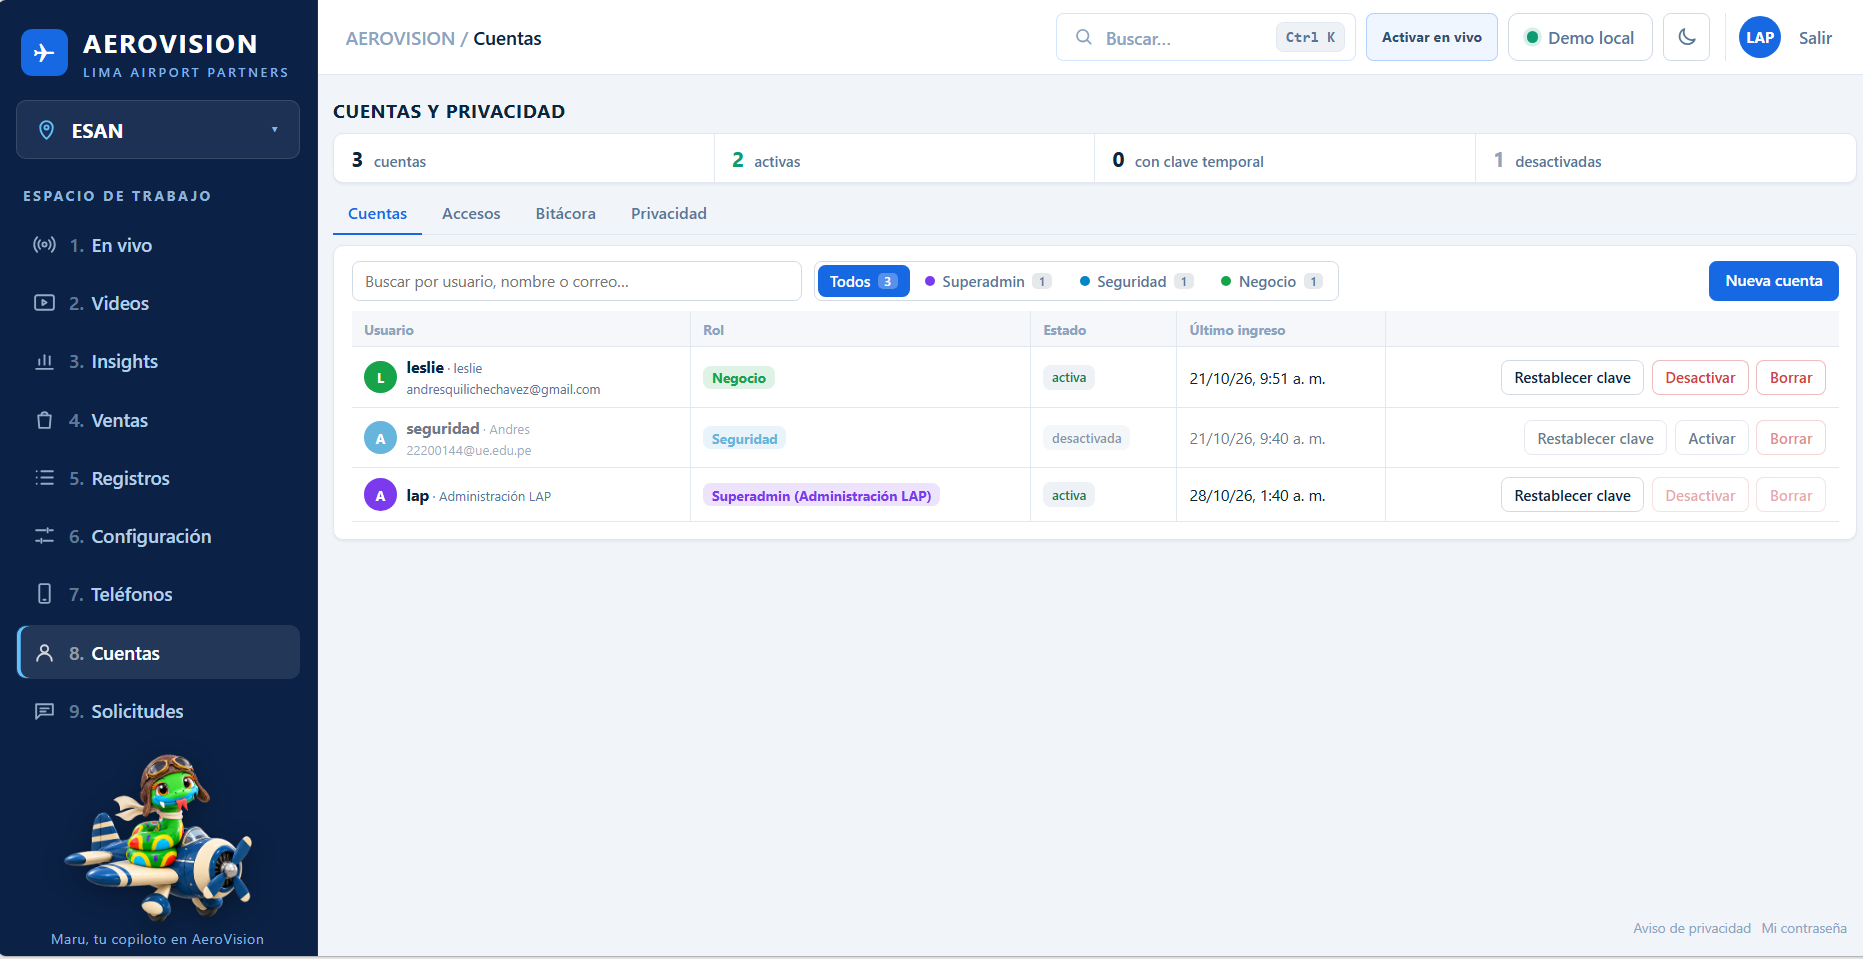
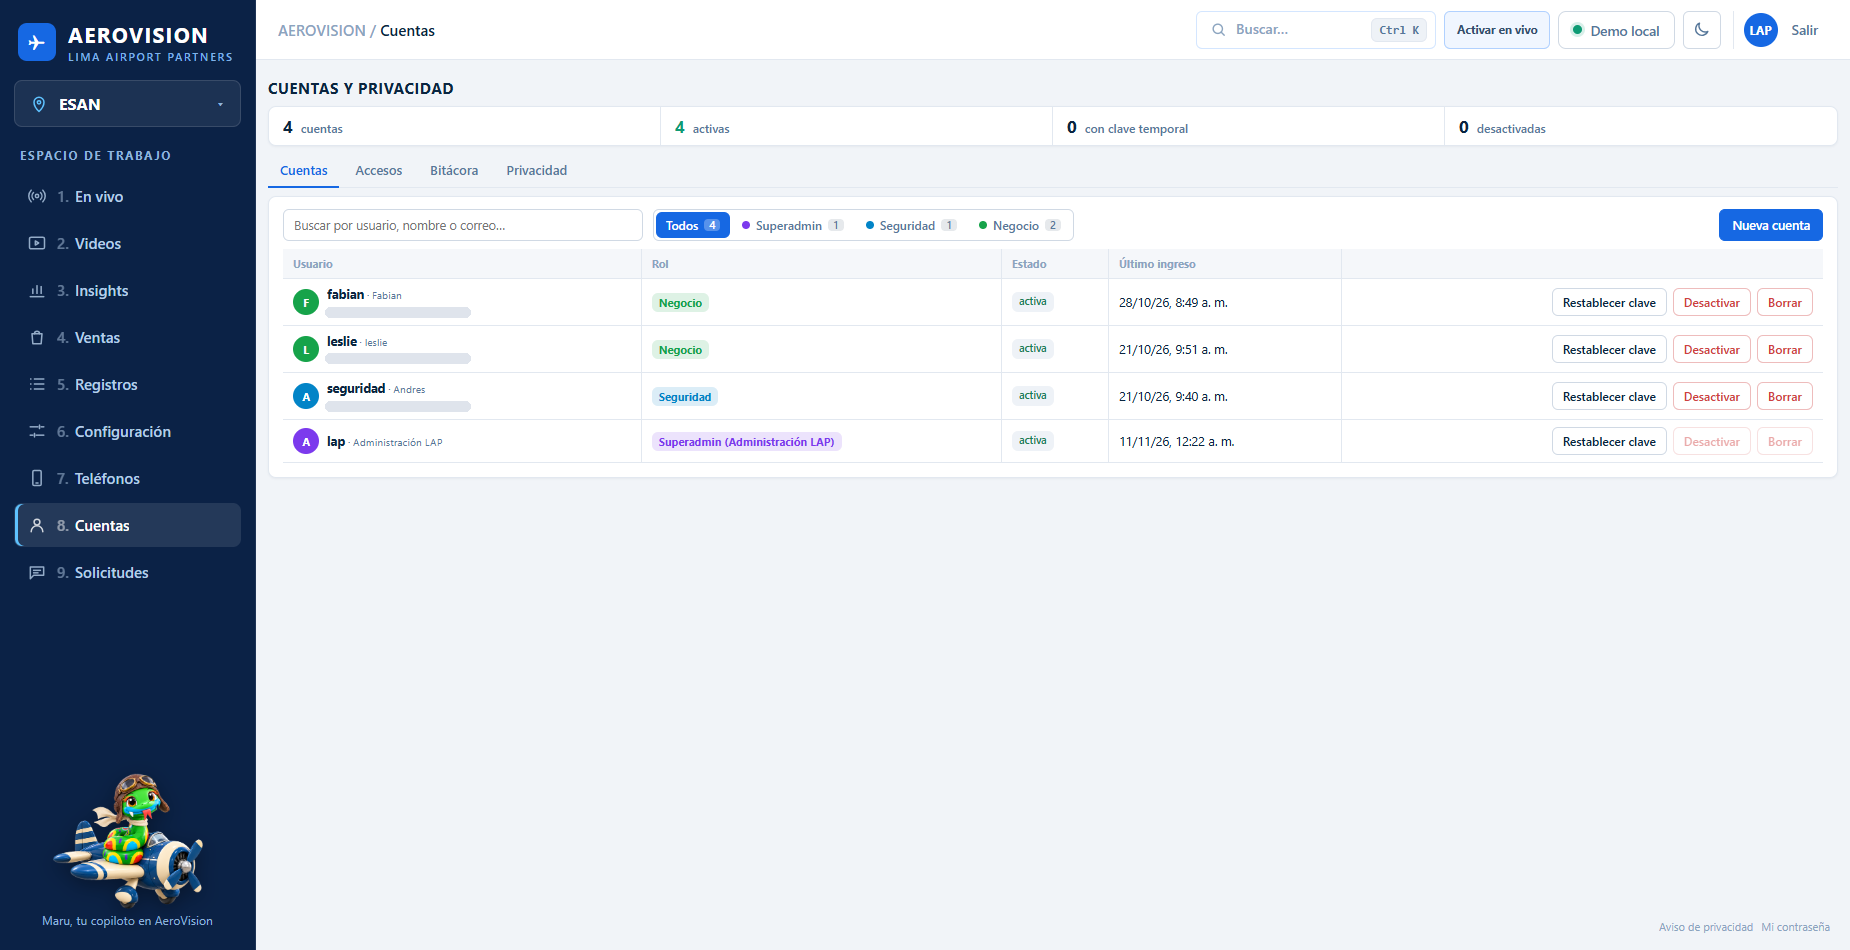
Informe: capturas de la plataforma al día, con el pasillo del Edificio D. Las capturas anteriores eran de antes de la tercera zona: el plano no tenía el pasillo y «Ir a» solo ofrecía Patio, Comedor y Todo el campus. Nuevas: Configuración con las tres zonas grabadas (patio cam01-cam03, comedor cam04-

diff --git a/informe_aeropuerto_2026.tex b/informe_aeropuerto_2026.tex
@@ -4284,7 +4284,8 @@ el primer mensaje del WebSocket, nunca en la URL.
 \begin{figure}[H]
 \centering
 \safeincludegraphics[width=\linewidth]{figuras/plataforma/cuentas.png}
-\caption{Cuentas: usuarios con sus roles, estado y último ingreso.}
+\caption{Cuentas: usuarios con sus roles, estado y último ingreso (los correos
+se taparon en la figura).}
 \label{fig:cuentas}
 \end{figure}
 
@@ -4650,8 +4651,10 @@ nueve secciones, y cada rol ve solo las suyas:
 \begin{figure}[H]
 \centering
 \safeincludegraphics[width=\linewidth]{figuras/arquitectura/web-configuracion.png}
-\caption{Configuración: zonas, tiendas y cámaras sobre el plano del sitio,
-umbrales de tráfico.}
+\caption{Configuración: zonas, tiendas y cámaras sobre el plano del sitio, con
+las tres zonas grabadas de ESAN (el patio con cam01 a cam03, el comedor con
+cam04 y cam05, y el pasillo del Edificio D con cam06 y cam07, la L celeste
+pegada al comedor), y umbrales de tráfico.}
 \label{fig:web-config}
 \end{figure}
 
@@ -4666,7 +4669,9 @@ el resumen de cada video.}
 \begin{figure}[H]
 \centering
 \safeincludegraphics[width=\linewidth]{figuras/plataforma/insights.png}
-\caption{Insights de una captura en vivo: personas, permanencia, captación y densidad.}
+\caption{Insights de una captura en vivo con dos teléfonos en el pasillo del
+Edificio D (9 de noviembre): personas, permanencia, captación, densidad, línea
+de tiempo y resumen de la sesión.}
 \label{fig:web-insights}
 \end{figure}
 
@@ -4689,8 +4694,8 @@ pronóstico, patrones, emparejamiento, tickets y datos.}
 \begin{figure}[H]
 \centering
 \safeincludegraphics[width=\linewidth]{figuras/plataforma/telefonos.png}
-\caption{Teléfonos: código de unión en QR, cámaras conectadas y memoria de
-personas, que se olvida tras 24 horas.}
+\caption{Teléfonos: código de unión en QR (borroso en la figura), cámaras
+conectadas y memoria de personas, que se olvida tras 24 horas.}
 \label{fig:web-telefonos}
 \end{figure}
 
@@ -5042,7 +5047,7 @@ más gente a la vez que el comedor, y de 2 a 3 veces más que la primera
 grabación del pasillo; aun
 así se procesaron al ritmo del video, unas 14 pasadas por segundo de las dos
 cámaras, en la GPU de la computadora local dentro de Docker
-(Figuras~\ref{fig:patio-09nov-camaras} a~\ref{fig:pasillo-calor}).
+(Figuras~\ref{fig:patio-09nov-camaras} a~\ref{fig:insights-09nov-web}).
 
 \begin{table}[H]
 \caption{Grabaciones de zonas con dos teléfonos: de menos a más gente}
@@ -5098,14 +5103,25 @@ posición y el rumbo de cada cámara.}
 \begin{figure}[H]
 \centering
 \safeincludegraphics[width=\linewidth]{figuras/validacion/patio-09nov-plano-calor.png}
-\caption{Patio, 9 de noviembre, como se ve en En vivo: a la izquierda, el
-seguimiento a los 104~s, con 27 personas en el plano, su ID global, su rastro
+\caption{Patio, 9 de noviembre, con el cálculo de En vivo: a la izquierda, el
+seguimiento a los 104~s, con 27 personas detectadas en ese momento, su ID global, su rastro
 de los últimos 10~s y en gris la última posición de quien ya salió; a la
 derecha, el mapa de calor de toda la sesión, con el mismo cálculo y la misma
 escala de color de la plataforma (celdas de 0.5~m, hasta 40 puntos por
 persona y celda). La mayor presencia está en el centro del patio, donde se
 cruzan las vistas de las dos cámaras.}
 \label{fig:patio-09nov-calor}
+\end{figure}
+
+\begin{figure}[H]
+\centering
+\safeincludegraphics[width=\linewidth]{figuras/validacion/patio-09nov-en-vivo-web.png}
+\caption{La misma grabación del patio en la plataforma (En vivo, «Ir a:
+Patio»), a los 104~s: seguimiento, mapa de calor y la lista de quién está en
+ese instante, con las cámaras que lo vieron y su tiempo en el plano. La
+plataforma marca 34 en el plano porque cuenta también a quien está entre dos
+detecciones, con su posición estimada.}
+\label{fig:patio-09nov-web}
 \end{figure}
 
 \begin{figure}[H]
@@ -5122,13 +5138,33 @@ cam06, dobla en la esquina noreste y sale por el brazo este, bajo cam07.}
 \begin{figure}[H]
 \centering
 \safeincludegraphics[width=\linewidth]{figuras/validacion/pasillo-plano-calor.png}
-\caption{Pasillo del Edificio D, 9 de noviembre, como se ve en En vivo: a la
-izquierda, el seguimiento a los 124.5~s, con 17 personas en el plano (G133
+\caption{Pasillo del Edificio D, 9 de noviembre, con el cálculo de En vivo: a la
+izquierda, el seguimiento a los 124.5~s, con 17 personas detectadas en ese momento (G133
 sale bajo cam07, como en la Figura~\ref{fig:pasillo-camaras}); a la derecha,
 el mapa de calor de toda la sesión, calculado como en la plataforma. El calor
 marca el camino de la escalera por el brazo norte, la esquina noreste y el
 brazo este hasta cam07.}
 \label{fig:pasillo-calor}
+\end{figure}
+
+\begin{figure}[H]
+\centering
+\safeincludegraphics[width=\linewidth]{figuras/validacion/pasillo-en-vivo-web.png}
+\caption{La grabación del pasillo en la plataforma (En vivo, «Ir a: Pasillo
+del Edificio D»), a los 124.5~s: 128 personas en la sesión y 18 en el plano,
+con el seguimiento sobre la L del pasillo, junto al comedor, y el mapa de calor
+de la escalera de cam06 al brazo este de cam07.}
+\label{fig:pasillo-web}
+\end{figure}
+
+\begin{figure}[H]
+\centering
+\safeincludegraphics[width=\linewidth]{figuras/validacion/insights-09nov-web.png}
+\caption{Insights de las dos grabaciones del 9 de noviembre: arriba el pasillo
+(128 personas, 33\,815 puntos, 2~min 34~s), abajo el patio (149 personas,
+64\,746 puntos, 3~min 25~s). El género no se estima: todas quedan «sin
+determinar».}
+\label{fig:insights-09nov-web}
 \end{figure}
 
 Lo que muestran estas grabaciones:
